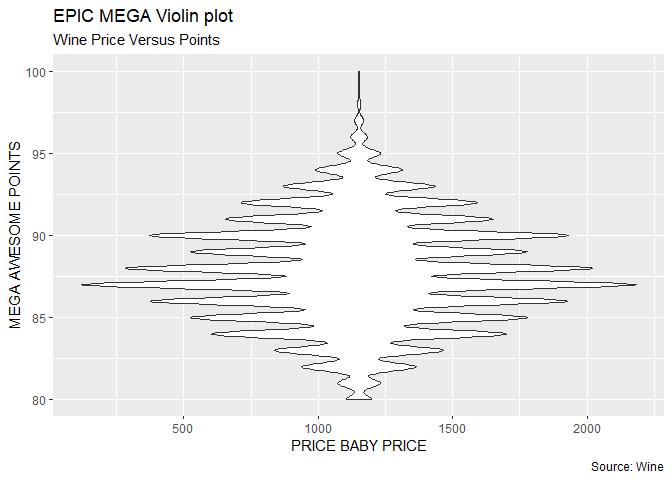
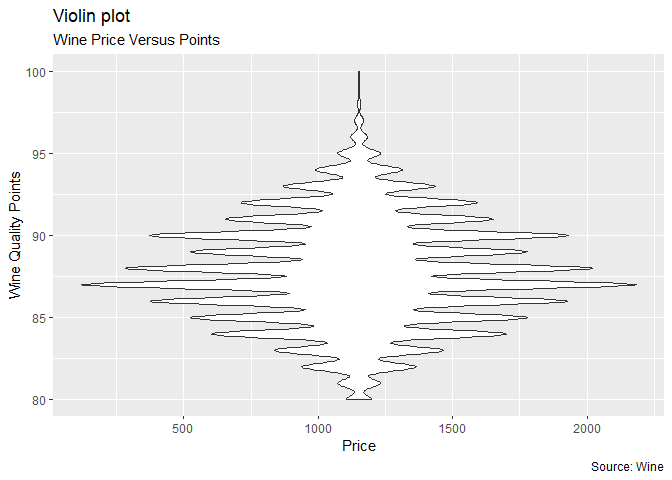
Playing around the plot

Changed region(s): [[0.0625, 0.0, 0.3438, 0.0625], [0.0, 0.2812, 0.0312, 0.6875], [0.4375, 0.9062, 0.625, 0.9375]]

diff --git a/hw_3.md b/hw_3.md
@@ -10,7 +10,7 @@ points actually indicate lower quality wines when compared to some of
 the lower price points.
 
 95-100 Classic: a great wine. 90-94 Outstanding: a wine of superior
-character and style. 85-89 Very good: a wine with special qualities.
+character and style. 85-89 Very good: a wine withhelp special qualities.
 80-84 Good: a solid, well-made wine. 75-79 Mediocre: a drinkable wine
 that may have minor flaws. 50-74 Not recommended.
 
@@ -20,11 +20,11 @@ Wine<-read.csv("winemag-data_first150k.csv")
 price <- (Wine$price)
 points <- (Wine$points)
 ggplot(data = Wine, mapping = aes(x = price, y = points)) + geom_violin()+ 
-  labs(title="EPIC MEGA Violin plot", 
+  labs(title="Violin plot", 
        subtitle="Wine Price Versus Points",
        caption="Source: Wine",
-       x="PRICE BABY PRICE",
-       y="MEGA AWESOME POINTS")
+       x="Price",
+       y="Wine Quality Points")
 ```
 
 ![](hw_3_files/figure-gfm/unnamed-chunk-1-1.png)<!-- -->
